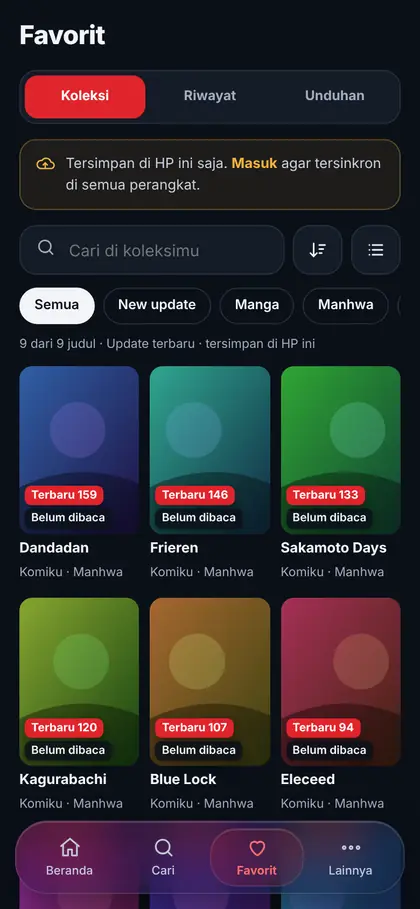
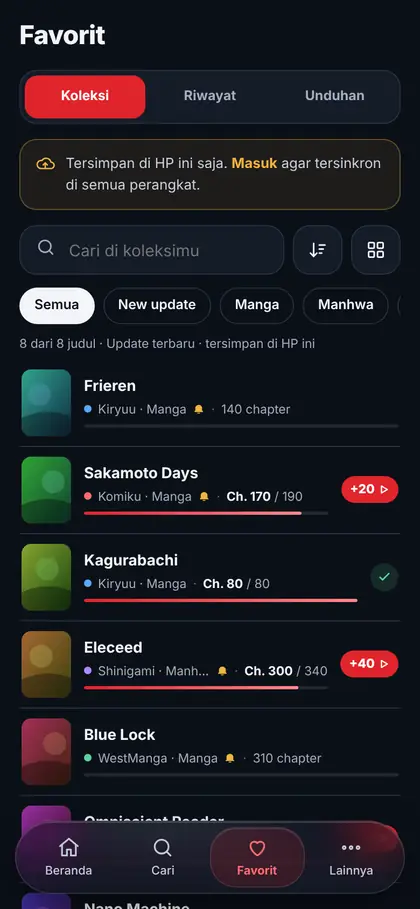
Riwayat pencarian; changelog Yang baru diperbarui (14 fitur, 8 slide gambar baru) + CHANGELOG.md; sumber panjang dipendekkan agar chapter tidak terpotong
Claude-Session: https://claude.ai/code/session_01T8UogkpTruoMTqi5yDjwFD

diff --git a/app/js/tour.js b/app/js/tour.js
@@ -9,36 +9,39 @@ import { esc, icon } from "./ui.js";
 export const WHATS_NEW = {
   "1.6.3": {
     title: "Yang baru di Ninokuu 1.6.3",
-    intro: "Lebih hemat kuota, membaca lebih nyaman, dan aplikasi terasa lebih responsif saat disentuh.",
+    intro: "Tampilan baru yang lebih rapi, lanjut baca cukup 1 ketukan, lebih hemat kuota, dan animasi lebih mulus di semua halaman.",
     features: [
-      ["Bar bawah ringkas", "Saat digulir ke bawah, bar menu mengecil jadi 1 tombol di tengah dengan animasi ala iOS. Ketuk untuk membukanya lagi."],
-      ["Hemat kuota", "Halaman chapter dimuat bertahap saat mendekati layar (sebelumnya seluruh chapter sekaligus). Sampul di daftar memakai versi kecil, sampai 94% lebih ringan."],
-      ["Lanjut dari halaman terakhir", "Keluar di halaman 12/48, buka lagi chapter itu → langsung ke halaman 12."],
-      ["Zoom cubit lebih mulus", "Gambar mengikuti jari saat dicubit dan digeser. Manhwa/manhua maks. 300%, manga 400%."],
-      ["Tombol muat ulang di atas", "Ikon muat ulang di bar atas pembaca; titik merah bila ada gambar yang gagal dimuat."],
-      ["Mode fullscreen", "Lainnya → Pengaturan → Tampilan layar. Bilah status HP ikut menu bacaan: muncul bersama menu, hilang saat menu disembunyikan."],
-      ["Pilihan di akhir chapter", "Tampilkan menu (bawaan) atau Otomatis lanjut ke chapter berikutnya (bisa dibatalkan)."],
-      ["Urutkan Beranda & Koleksi", "Beranda: Update terbaru, Populer, Judul A-Z/Z-A, Rating (sesuai sumber), 15 judul per muatan. Koleksi: grid 3 kolom, label Terbaru muncul sendiri."],
-      ["Pembaca aktif sungguhan", "Angka di Chat publik menghitung orang yang sedang membuka Ninokuu saat ini, realtime."],
-      ["Lebih responsif disentuh", "Tombol dan kartu langsung bereaksi saat disentuh; lembar bawah bisa digeser turun untuk menutup."],
-      ["Pengaturan baru", "Mode efek avatar dan pilihan bacaan di Lainnya → Pengaturan, juga di menu ⋯ saat membaca."],
-      ["Posisi daftar tersimpan", "Kembali dari halaman komik, Beranda dan Pencarian tetap di posisi terakhir."],
-      ["Komik ribuan chapter & reset password", "Daftar chapter lengkap sampai chapter 1. Lupa password membuka ninokuu.site dengan tombol kembali ke aplikasi."],
+      ["Lanjut baca 1 ketukan", "Di Koleksi, ketuk lencana +N untuk langsung membuka chapter berikutnya. Di Riwayat ada tombol Lanjut (ke halaman terakhir) dan Berikutnya."],
+      ["Koleksi & Riwayat baru", "Daftar lebih ramping: sumber berwarna, chapter yang dibaca ditebalkan, bar progres, dan jumlah chapter baru."],
+      ["Top 10 bermedali", "Peringkat 1 emas bermahkota, 2 perak, 3 perunggu."],
+      ["Riwayat pencarian", "Ketuk kolom cari: 10 kata kunci terakhir muncul, bisa dihapus satu-satu atau semuanya."],
+      ["Bar bawah ringkas", "Saat digulir ke bawah, bar menu mengecil jadi 1 tombol di tengah. Ketuk untuk membukanya lagi."],
+      ["Menu ⋯ pembaca ringkas", "Mode baca, daftar chapter, laporan, dan pilihan bacaan dalam satu panel pendek."],
+      ["Hemat kuota", "Halaman chapter dimuat bertahap tanpa melompat; sampul memakai versi kecil, sampai 94% lebih ringan."],
+      ["Sampul cadangan", "Sampul yang gagal dimuat diganti logo Ninokuu dengan tombol muat ulang."],
+      ["Lanjut dari halaman terakhir", "Buka lagi chapter yang belum selesai → langsung ke halaman terakhir yang dibaca."],
+      ["Pilihan bacaan", "Mode standar/fullscreen dan pilihan di akhir chapter (menu atau otomatis lanjut), di Lainnya → Pengaturan dan menu ⋯."],
+      ["Zoom & muat ulang", "Cubit untuk zoom yang mengikuti jari. Tombol muat ulang di bar atas pembaca, titik merah bila ada gambar gagal."],
+      ["Urutkan Beranda & Koleksi", "Update terbaru, Populer, Judul A-Z/Z-A, Rating (sesuai sumber); Koleksi juga bisa grid 3 kolom."],
+      ["Pembaca aktif sungguhan", "Angka di Chat publik menghitung orang yang sedang membuka Ninokuu, realtime."],
+      ["Komik ribuan chapter & reset password", "Daftar chapter lengkap sampai chapter 1. Lupa password lewat ninokuu.site dengan tombol kembali ke aplikasi."],
     ],
     fixes: [
-      "Shinigami kembali bisa dibuka: pindah ke server barunya (s1.shinigami.mx).",
-      "Menu bacaan langsung muncul saat layar diketuk, dan sembunyi setelah digulir ±40 px.",
-      "Menu ⋯ pembaca tidak lagi terpotong.",
-      "Label Terbaru di Koleksi tidak perlu membuka komiknya dulu; judul grid maksimal 2 baris.",
+      "Shinigami kembali bisa dibuka (pindah ke server barunya).",
+      "Animasi lebih mulus: pindah halaman, Lainnya, dan halaman komik tidak tersendat; hiasan avatar hanya bergerak saat terlihat.",
+      "Halaman komik tidak lagi berkedip saat komentar dimuat.",
+      "Menu ⋯ pembaca tidak terpotong; menu bacaan langsung muncul saat layar diketuk.",
       "File CBZ/ZIP besar bisa dibuka; pesan error menyebut alasan sebenarnya.",
     ],
     tour: [
-      { img: "bar", title: "Bar bawah ringkas", text: "Gulir ke bawah, bar mengecil jadi 1 tombol di tengah. Ketuk tombol itu untuk memunculkan Beranda, Cari, Favorit, dan Lainnya lagi." },
-      { img: "sort", title: "Urutkan Beranda", text: "Ketuk ikon urutkan di Update terbaru. Pilihan menyesuaikan sumber. 15 judul per muatan, berikutnya dimuat otomatis." },
-      { img: "koleksi", title: "Koleksi 3 kolom", text: "Urutkan koleksi lewat ikon di samping pencarian. Label Terbaru muncul sendiri tanpa membuka komiknya." },
-      { img: "pengaturan", title: "Pengaturan bacaan", text: "Lainnya → Pengaturan: sembunyikan menu otomatis, Mode standar/fullscreen, dan pilihan di akhir chapter." },
-      { img: "baca", title: "Saat membaca", text: "Ikon muat ulang ada di bar atas; titik merah berarti ada gambar yang gagal. Chapter lanjut dari halaman terakhir, cubit untuk zoom." },
-      { img: "menu", title: "Menu ⋯ pembaca", text: "Pilihan bacaan yang sama juga bisa diubah langsung dari menu ⋯ saat membaca." },
+      { img: "koleksi", title: "Lanjut baca 1 ketukan", text: "Ketuk lencana +N di Koleksi untuk langsung membuka chapter berikutnya. Centang hijau berarti sudah sampai chapter terbaru." },
+      { img: "riwayat", title: "Riwayat baru", text: "Lanjut membuka chapter yang belum selesai di halaman terakhir. Berikutnya membuka chapter sesudahnya." },
+      { img: "top10", title: "Top 10 bermedali", text: "Peringkat 1 emas bermahkota, 2 perak, 3 perunggu. Daftar Beranda dan Pencarian juga lebih ringkas." },
+      { img: "cari", title: "Riwayat pencarian", text: "Ketuk kolom cari untuk memilih kata kunci terakhir. Tanda × menghapusnya." },
+      { img: "bar", title: "Bar bawah ringkas", text: "Gulir ke bawah, bar mengecil jadi 1 tombol. Ketuk untuk memunculkan Beranda, Cari, Favorit, dan Lainnya lagi." },
+      { img: "sort", title: "Urutkan Beranda", text: "Ketuk ikon urutkan di Update terbaru. Pilihan menyesuaikan sumber; judul berikutnya dimuat otomatis." },
+      { img: "menu", title: "Menu ⋯ ringkas", text: "Mode baca, daftar chapter, laporan, dan pilihan bacaan dalam satu panel pendek." },
+      { img: "baca", title: "Saat membaca", text: "Ikon muat ulang di bar atas; titik merah berarti ada gambar gagal. Lanjut dari halaman terakhir, cubit untuk zoom." },
     ],
   },
 };

diff --git a/app/js/main.js b/app/js/main.js
@@ -410,10 +410,10 @@ async function vSearch(type) {
   if (type !== undefined) sState.type = TYPES.some((t) => t.id === type) ? type : "";
   view.innerHTML = `
 <div class="page-h"><h1>Pencarian</h1></div>
-<div class="px row g8"><label class="search grow"><span class="mu">${icon("search", 20)}</span><span class="sr">Cari judul</span>
+<div class="px row g8 s-wrap"><label class="search grow"><span class="mu">${icon("search", 20)}</span><span class="sr">Cari judul</span>
   <input id="sq" type="search" enterkeyhint="search" autocomplete="off" placeholder="Cari judul manga, manhwa, manhua…" value="${esc(sState.q)}">
   <button type="button" class="clr" data-act="clear" aria-label="Hapus pencarian" ${sState.q ? "" : "hidden"}>${icon("x", 16, 2.2)}</button></label>
-  <span id="fltbtn"></span></div>
+  <span id="fltbtn"></span><div class="sh-pop" id="shpop" role="listbox" aria-label="Pencarian terakhir"></div></div>
 <div class="sec s14">${seg(SOURCES, sState.src, "src")}</div>
 <div class="px mt10" id="tchips"></div>
 <div class="px" id="factive"></div>
@@ -452,18 +452,43 @@ async function vSearch(type) {
     } catch (e) { if (my === seq && $("#sres")) $("#sres").innerHTML = errBox(e); }
   };
   const inp = $("#sq");
+  // Riwayat pencarian: 10 kata kunci terakhir (disimpan di HP). Muncul di bawah kolom cari saat kolomnya
+  // diketuk dan masih kosong. Disimpan saat Enter, saat memilih hasil, atau saat meninggalkan halaman.
+  const HK = "searchHist";
+  const shList = () => { const h = api.lsGet(HK); return Array.isArray(h) ? h : []; };
+  const saveQ = (q) => { q = String(q || "").trim(); if (q.length < 2) return; api.lsSet(HK, [q, ...shList().filter((x) => x.toLowerCase() !== q.toLowerCase())].slice(0, 10)); };
+  const pop = $("#shpop");
+  const drawHist = () => {
+    const h = shList();
+    pop.innerHTML = h.length ? `<div class="shp-h"><span class="cap">Pencarian terakhir</span><button type="button" class="link-red sm" data-shall>Hapus semua</button></div>
+      ${h.map((q) => `<div class="shp-row" role="option"><button type="button" class="shp-q" data-sh="${esc(q)}"><span class="mu">${icon("clock", 16)}</span><span class="t1">${esc(q)}</span></button><button type="button" class="shp-x" data-shx="${esc(q)}" aria-label="Hapus ${esc(q)} dari riwayat">${icon("x", 14, 2.2)}</button></div>`).join("")}` : "";
+    return h.length > 0;
+  };
+  const showHist = (on) => pop.classList.toggle("on", on && document.activeElement === inp && !inp.value && drawHist());
+  pop.addEventListener("pointerdown", (e) => e.preventDefault());          // kolom cari tetap fokus saat panel diketuk
+  pop.addEventListener("click", (e) => {
+    const b = e.target.closest("[data-sh], [data-shx], [data-shall]"); if (!b) return;
+    e.preventDefault(); e.stopPropagation();
+    if (b.dataset.sh != null) { const q = b.dataset.sh; inp.value = q; sState.q = q; saveQ(q); $("[data-act=clear]").hidden = false; pop.classList.remove("on"); inp.blur(); load(); }
+    else if (b.dataset.shx != null) { api.lsSet(HK, shList().filter((x) => x !== b.dataset.shx)); showHist(true); }
+    else { api.lsSet(HK, []); pop.classList.remove("on"); }
+  });
+  inp.addEventListener("focus", () => showHist(true));
+  inp.addEventListener("blur", () => pop.classList.remove("on"));
+  $("#sres").addEventListener("click", (e) => { if (e.target.closest("a") && sState.q) saveQ(sState.q); });
   inp.addEventListener("input", () => {
     const v = inp.value.trim();
+    showHist(true);
     $("[data-act=clear]").hidden = !inp.value;
     clearTimeout(timer);
     if (v === sState.q) return;
     timer = setTimeout(() => { sState.q = v; load(); }, 400);
   });
-  inp.addEventListener("keydown", (e) => { if (e.key === "Enter") { e.preventDefault(); clearTimeout(timer); sState.q = inp.value.trim(); inp.blur(); load(); } });
-  cleanup = () => clearTimeout(timer);
+  inp.addEventListener("keydown", (e) => { if (e.key === "Enter") { e.preventDefault(); clearTimeout(timer); sState.q = inp.value.trim(); saveQ(sState.q); inp.blur(); load(); } });
+  cleanup = () => { clearTimeout(timer); if (sState.q && items.length) saveQ(sState.q); };
   const pick = (act, el) => $$(`[data-act=${act}]`).forEach((b) => b.setAttribute(b.parentElement.classList.contains("chips") ? "aria-pressed" : "aria-selected", String(b === el)));
   setActs({
-    clear: () => { inp.value = ""; sState.q = ""; $("[data-act=clear]").hidden = true; inp.focus(); load(); },
+    clear: () => { inp.value = ""; sState.q = ""; $("[data-act=clear]").hidden = true; inp.focus(); showHist(true); load(); },
     src: (el) => { if (sState.genres.length) toast("Filter genre direset karena tiap sumber punya daftar genre sendiri."); sState.src = el.dataset.v; api.lsSet("searchSrc", sState.src); sState.genres = []; pick("src", el); drawFilters(); load(); },
     type: (el) => { sState.type = el.dataset.v; drawFilters(); load(); },
     filter: () => openFilter(sState.src, sState, (f) => { sState.type = f.type; sState.status = f.status; sState.genres = f.genres; drawFilters(); load(); }),
@@ -1379,7 +1404,7 @@ function vFav(tab) {
     const badge = fresh ? `<button class="fa-new" type="button" data-next data-src="${esc(m.source)}" data-id="${esc(m.comic_id)}" data-ch="${esc(r?.chapter_id || "")}" data-n="${esc(r?.chapter ?? "")}" aria-label="Baca chapter berikutnya (${gap > 0 ? gap + " chapter baru" : "chapter baru"})">${gap > 0 ? "+" + gap : "Baru"}${icon("play", 11, 2.6)}</button>` : r && m.latest != null && R >= L ? `<span class="fa-ok" title="Sudah terbaru">${icon("check", 14, 2.4)}</span>` : "";
     return `<a class="fa-row" href="${comicHref(m.source, m.comic_id)}">${cover(m.cover, m.title, "sm")}<span class="fa-mid">
       <b class="fa-t">${esc(m.title)}</b>
-      <span class="fa-meta"><i class="fa-dot s-${esc(m.source)}"></i>${srcType(m)}${m.notify ? `<span class="gold fa-bell" title="Notifikasi aktif">${icon("bellF", 11)}</span>` : ""}<span class="fa-sep">·</span><span class="fa-ch">${chTxt}</span></span>
+      <span class="fa-meta"><i class="fa-dot s-${esc(m.source)}"></i><span class="fa-src">${srcType(m)}</span>${m.notify ? `<span class="gold fa-bell" title="Notifikasi aktif">${icon("bellF", 11)}</span>` : ""}<span class="fa-sep">·</span><span class="fa-ch">${chTxt}</span></span>
       <span class="fa-bar"><i style="width:${pctRead}%"></i></span>
     </span>${badge}</a>`;
   };

diff --git a/app/css/app.css b/app/css/app.css
@@ -1185,3 +1185,22 @@ button.fa-new:active, .hl-go:active { scale: .92; }
 .hl-go.nx { background: rgba(224, 36, 43, .16); color: var(--redt); padding-right: 9px; }
 .fa-new.busy, .hl-go.busy { opacity: .6; pointer-events: none; }
 .fa-new.busy svg, .hl-go.busy svg { animation: spinb .8s linear infinite; }
+
+/* riwayat pencarian: panel melayang di bawah kolom cari (tidak menggeser isi halaman) */
+.s-wrap { position: relative; z-index: 6; }
+.sh-pop { position: absolute; left: 18px; right: 18px; top: calc(100% + 8px); max-height: min(360px, 50vh); overflow-y: auto; overscroll-behavior: contain; padding: 6px; border-radius: 18px;
+  background: #121824; border: 1px solid var(--line); box-shadow: 0 16px 40px rgba(0, 0, 0, .5);
+  opacity: 0; transform: translateY(-6px) scale(.98); transform-origin: top center; pointer-events: none; visibility: hidden;
+  transition: opacity .16s ease-out, transform .22s cubic-bezier(.32, .72, 0, 1), visibility 0s linear .22s; }
+.sh-pop.on { opacity: 1; transform: none; pointer-events: auto; visibility: visible; transition: opacity .16s ease-out, transform .22s cubic-bezier(.32, .72, 0, 1), visibility 0s; }
+.shp-h { display: flex; align-items: center; justify-content: space-between; padding: 6px 8px 4px 10px; }
+.shp-h .cap { margin: 0; }
+.shp-row { display: flex; align-items: center; border-radius: 12px; }
+.shp-row:active { background-color: rgba(255, 255, 255, .05); }
+.shp-q { flex: 1; min-width: 0; display: flex; align-items: center; gap: 10px; min-height: 42px; padding: 0 10px; text-align: left; font-size: 14px; }
+.shp-x { flex: none; width: 40px; height: 40px; display: grid; place-items: center; color: var(--mu); border-radius: 12px; }
+.shp-x:active { background-color: rgba(255, 255, 255, .06); }
+
+/* teks sumber yang panjang memendek (…), chapter & lonceng selalu utuh */
+.fa-src { min-width: 0; overflow: hidden; text-overflow: ellipsis; }
+.fa-bell, .fa-sep, .fa-ch, .fa-dot { flex: none; }

diff --git a/CHANGELOG.md b/CHANGELOG.md
@@ -1,0 +1,58 @@
+# Changelog Ninokuu
+
+Catatan perubahan per versi. Versi terbaru di atas.
+Isi pop-up "Yang baru" di aplikasi ada di `app/js/tour.js` (`WHATS_NEW`), gambarnya di `app/img/new/`.
+
+---
+
+## 1.6.3 — (belum dirilis global, sedang diuji di Ninokuu Dev)
+
+### Fitur baru
+- **Lanjut baca 1 ketukan.** Lencana `+N` di Koleksi langsung membuka chapter sesudah chapter terakhir yang dibaca. Kalau sudah di chapter terbaru, aplikasi hanya memberi tahu dan tidak pindah halaman.
+- **Riwayat baru.** Setiap baris menampilkan sumber, waktu, "Ch. X · hal a / b", dan bar halaman. Tombol **Lanjut** membuka chapter yang belum selesai di halaman terakhir, tombol **Berikutnya** membuka chapter sesudahnya.
+- **Riwayat pencarian.** Berisi 10 kata kunci terakhir dan muncul di bawah kolom cari saat kolomnya diketuk dan masih kosong. Bisa dihapus satu-satu atau semuanya. Kata kunci disimpan saat menekan Enter, memilih hasil, atau meninggalkan halaman.
+- **Top 10 bermedali.** Nomor peringkat berupa medali di pojok sampul: #1 emas dengan mahkota, #2 perak, #3 perunggu.
+- **Bar bawah ringkas.** Saat digulir ke bawah, bar mengecil jadi satu tombol bulat (gaya iOS). Ketuk untuk membukanya lagi.
+- **Sampul cadangan.** Sampul yang gagal dimuat diganti logo Ninokuu dengan tombol muat ulang, dan dicoba ulang otomatis saat internet kembali.
+- **Pengaturan bacaan.** Sembunyikan menu otomatis, Mode standar/fullscreen, dan pilihan di akhir chapter (Tampilkan menu / Otomatis lanjut).
+- **Lanjut dari halaman terakhir**, **zoom cubit** yang mengikuti jari, dan **tombol muat ulang** di bar atas pembaca.
+- **Urutkan** Beranda (sesuai sumber) dan Koleksi, plus Koleksi grid 3 kolom.
+- **Pembaca aktif** di Chat dihitung realtime (Supabase Realtime Presence).
+- **Komik ribuan chapter** dimuat lengkap sampai chapter 1, dan ada halaman reset password di ninokuu.site.
+
+### Tampilan
+- Koleksi tampilan daftar lebih ramping: titik warna sumber, chapter yang dibaca ditebalkan, bar progres, dan lencana `+N` atau centang.
+- Daftar Beranda dan Pencarian minimalis, dengan tanda hati untuk komik yang sudah ada di koleksi.
+- Menu ⋯ pembaca ringkas, kira-kira sepertiga tinggi sebelumnya.
+- Pop-up "Yang baru" memakai slide gambar (carousel) yang mengikuti jari.
+
+### Perbaikan
+- Shinigami pindah ke server baru (`api.shinigami.io`, situs `s1.shinigami.mx`). Daftar komik memakai `limit/offset`, daftar chapter memakai `cursor`.
+- Gambar chapter tidak lagi melompat saat dimuat. Tinggi sementara mengikuti ukuran gambar sebelumnya, dan halaman dimuat 3 layar atau 2 halaman ke depan.
+- Animasi lebih mulus:
+  - Indikator tab, sakelar, dan bar bawah memakai transform.
+  - Hiasan avatar hanya bergerak saat terlihat dan dijeda saat pindah halaman.
+  - Bingkai rank komentar dibuat 5× lebih cepat.
+  - Kilau kerangka "memuat" memakai transform.
+- Halaman komik tidak lagi menggambar ulang seluruh isinya saat komentar datang.
+- Menu ⋯ pembaca tidak terpotong, file CBZ/ZIP besar bisa dibuka, dan pop-up "Yang baru" di Dev hanya muncul ulang bila isinya berubah.
+
+### Server & biaya (Supabase)
+- **Hemat egress.** Gambar dimuat langsung dari situs sumber, dan proxy server hanya dipakai sebagai cadangan terakhir. Sampul memakai versi kecil (Komiku `?w=`, Kiryuu ukuran WordPress).
+- Secret `IMG_PROXY=cover` sudah dipasang sejak 18 Nov 2026, sehingga server hanya mengirim sampul. APK 1.6.1 ke bawah tidak bisa membuka halaman chapter Komiku, Kiryuu, dan Shinigami sampai pengguna memperbarui aplikasi.
+- `ninokuu-api` 1.5.0: aksi `more_chapters`, `latest`, urutan per sumber, dan cron yang mati otomatis di fungsi `-dev`.
+- Build global gagal otomatis bila changelog "Yang baru" atau gambar slidenya untuk versi itu tidak ada (`.github/workflows/apk.yml`).
+
+### Langkah rilis global (saat "update")
+1. Gabungkan `dev` → `main`. Ubah `VERSION` bila nomor versinya naik, dan pindahkan entri `WHATS_NEW` ke versi baru itu.
+2. Deploy `ninokuu-api` 1.5.0 ke fungsi global.
+3. Pastikan Redirect URL Auth Supabase berisi `https://ninokuu.site/resetpassword/`.
+4. Tunggu APK `apk-terbaru` selesai dibangun, lalu umumkan pembaruan ke pengguna.
+
+---
+
+## 1.6.2 — 18 Nov 2026
+- Hemat egress Supabase: gambar langsung dari situs asli, dan proxy hanya cadangan.
+
+## 1.6.1 — 15 Nov 2026
+- Tombol update membuka halaman ninokuu.site/update.
